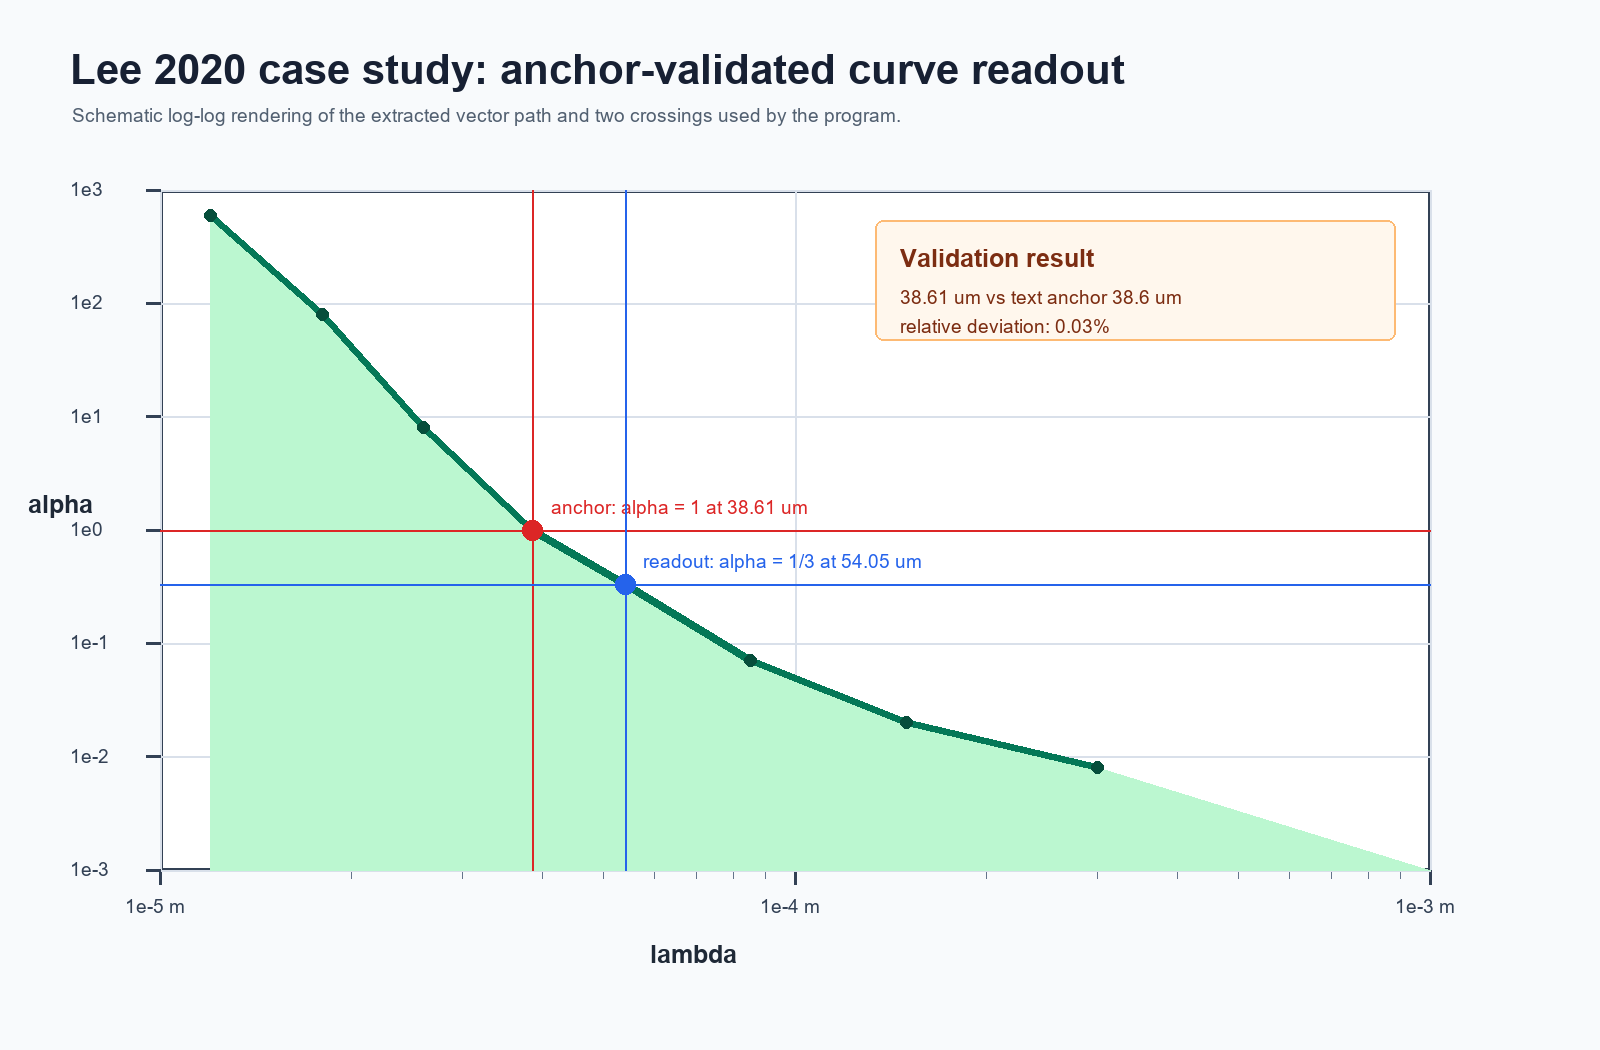
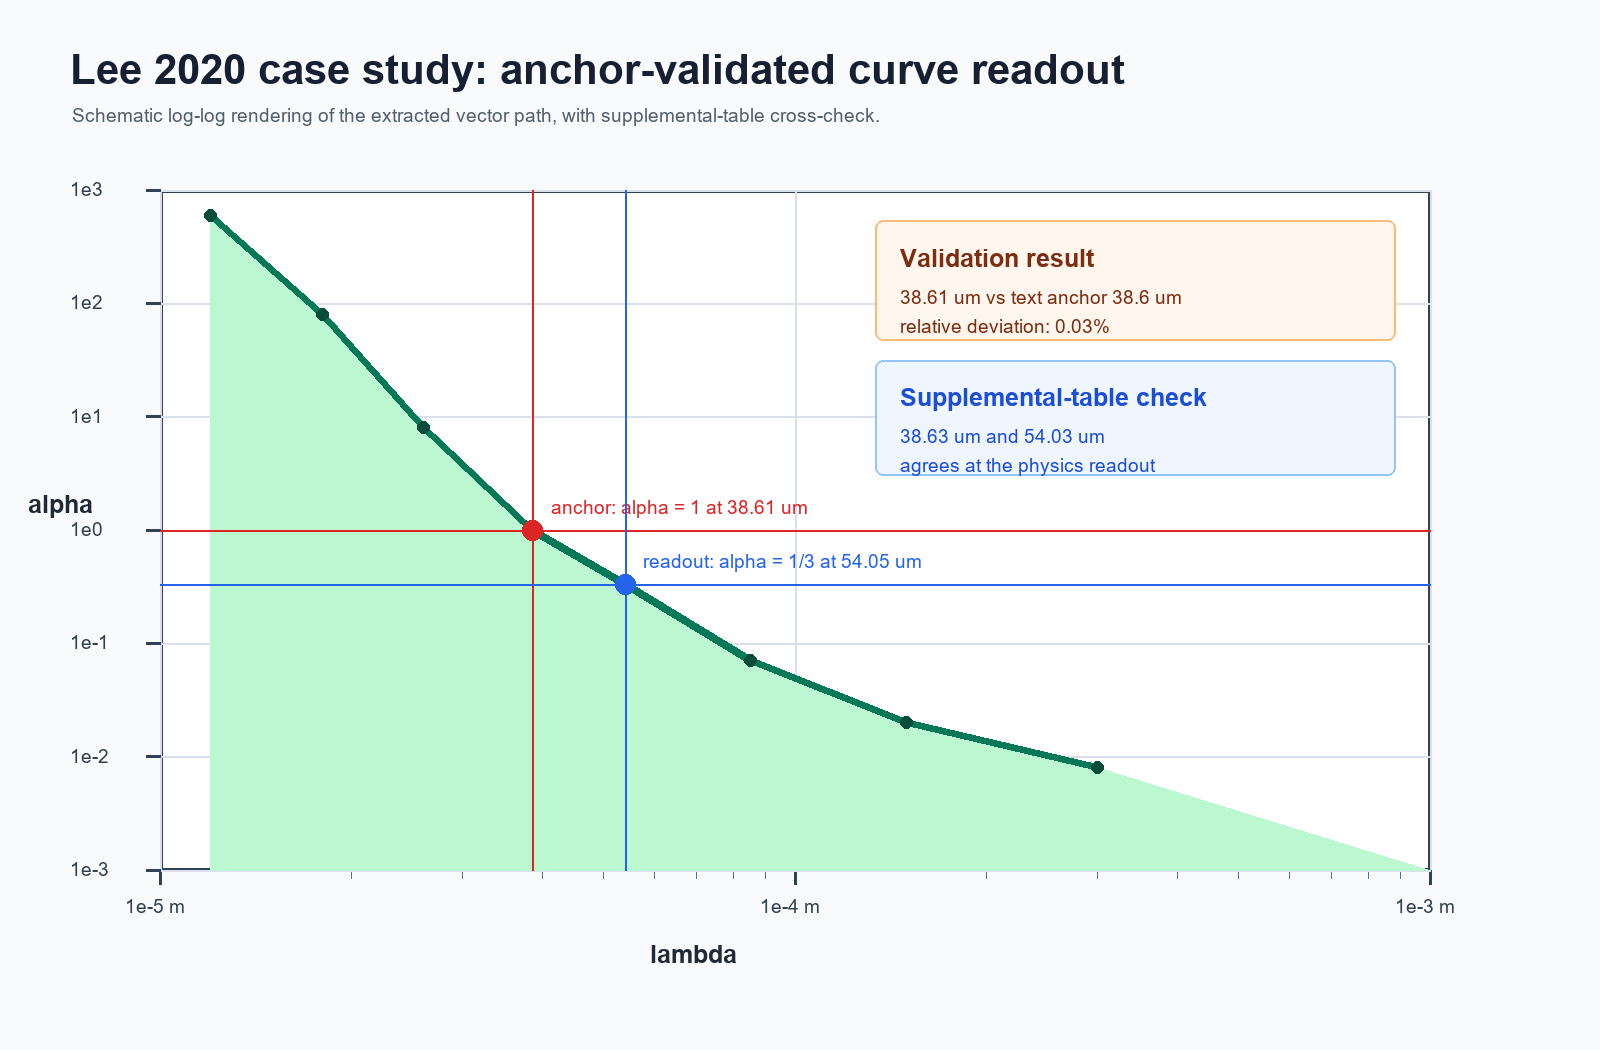
Update short-range gravity data citations and paper drafts
- wire Exp01 results into Paper 1, Paper 3, and Paper 6 drafts
- refresh Yukawa/null-test sections with validated Lee and Tan crossings
- regenerate affected draft figures with current 54.03 um frontier
- add Lee 2020 and Tan 2020 reference entries and citation markers
- update Exp01 lab report to curve-level confrontation status

Changed region(s): [[0.5625, 0.3657, 0.75, 0.4571], [0.3438, 0.0914, 0.5625, 0.1219]]

diff --git a/paper_drafts/03/src_fig/figure_3_lee2020_case_study.py b/paper_drafts/03/src_fig/figure_3_lee2020_case_study.py
@@ -28,7 +28,7 @@ label = font(25, True)
 small = font(19)
 
 d.text((70, 45), "Lee 2020 case study: anchor-validated curve readout", font=title, fill="#172033")
-d.text((72, 104), "Schematic log-log rendering of the extracted vector path and two crossings used by the program.", font=small, fill="#526071")
+d.text((72, 104), "Schematic log-log rendering of the extracted vector path, with supplemental-table cross-check.", font=small, fill="#526071")
 
 plot = (160, 190, 1430, 870)
 left, top, right, bottom = plot
@@ -69,6 +69,8 @@ d.text((28, 490), "alpha", font=label, fill="#1f2937")
 # Smooth illustrative curve constrained to pass through the two recorded crossings.
 cross_a1 = 38.61e-6
 cross_a13 = 54.05e-6
+supp_a1 = 38.63e-6
+supp_a13 = 54.03e-6
 points = [
     (1.2e-5, 6.0e2),
     (1.8e-5, 8.0e1),
@@ -101,6 +103,12 @@ d.rounded_rectangle(note, radius=8, fill="#fff7ed", outline="#fdba74", width=2)
 d.text((900, 244), "Validation result", font=label, fill="#7c2d12")
 d.text((900, 286), "38.61 um vs text anchor 38.6 um", font=small, fill="#7c2d12")
 d.text((900, 315), "relative deviation: 0.03%", font=small, fill="#7c2d12")
+
+cross = (875, 360, 1395, 475)
+d.rounded_rectangle(cross, radius=8, fill="#eff6ff", outline="#93c5fd", width=2)
+d.text((900, 383), "Supplemental-table check", font=label, fill="#1d4ed8")
+d.text((900, 425), "38.63 um and 54.03 um", font=small, fill="#1d4ed8")
+d.text((900, 454), "agrees at the physics readout", font=small, fill="#1d4ed8")
 
 OUT.parent.mkdir(parents=True, exist_ok=True)
 img.save(OUT)

diff --git a/paper_drafts/06/src_fig/figure_4_yukawa_null_test.py b/paper_drafts/06/src_fig/figure_4_yukawa_null_test.py
@@ -38,8 +38,8 @@ left_lines = [
     "V(r) = -Gm/r [1 + alpha exp(-r/ell)]",
     "alpha = 1/3",
     "ell = sqrt(6a)",
-    "Lee 2020 curve: alpha = 1/3 crossing",
-    "ell < 54.05 um",
+    "validated curves: Lee binds",
+    "ell < 54.03 um",
 ]
 right_lines = [
     "a = 0",
@@ -62,7 +62,7 @@ d.polygon([(865, 475), (842, 462), (842, 488)], fill="#64748b")
 
 footer = (250, 800, 1350, 865)
 d.rounded_rectangle(footer, radius=8, fill="#fff7ed", outline="#fdba74", width=2)
-d.text((290, 820), "Data do not select a = 0; the principle does. Data test whether the principle survives.", font=body, fill="#7c2d12")
+d.text((290, 820), "Data do not select a = 0; the principle does. Current alpha=1/3 frontier: 54.03 um.", font=body, fill="#7c2d12")
 
 OUT.parent.mkdir(parents=True, exist_ok=True)
 img.save(OUT)

diff --git a/paper_drafts/06/md/09_yukawa_null_test.md b/paper_drafts/06/md/09_yukawa_null_test.md
@@ -14,16 +14,27 @@ alpha = 1/3,
 ell = sqrt(6a).
 ```
 
-Short-range gravity experiments can therefore bound `ell`. In the Lee 2020
-curve extracted for this project, the `alpha = 1/3` crossing is
+Short-range gravity experiments can therefore bound `ell` if the scalaron is
+allowed. The current `ShortRangeGravity` v1 data gate contains two validated
+95%-CL curves [Lee et al., 2020; Tan et al., 2020]:
 
 ```text
-ell = 54.05 um.
+Lee 2020: |alpha| = 1 crossing   38.63 um
+Lee 2020: alpha = 1/3 crossing   54.03 um
+
+Tan 2020: |alpha| = 1 crossing   47.74 um
+Tan 2020: alpha = 1/3 crossing   57.29 um
 ```
 
-Thus, without static frame indifference, that curve would bound the scalaron
-range at approximately this scale. With static frame indifference, the
-prediction is stronger and cleaner:
+The Lee 2020 curve [Lee et al., 2020] is binding in the scalaron window.
+Thus, without static frame indifference, the current data would bound the
+scalaron range at
+
+```text
+ell < 54.03 um.
+```
+
+With static frame indifference, the prediction is stronger and cleaner:
 
 ```text
 No gravitational-strength scalaron Yukawa channel exists at any range.
@@ -33,3 +44,7 @@ The data do not select `a = 0`; the principle does. The data show where the
 principle is being tested. A confirmed gravitational-strength Yukawa signal
 with the scalaron sign and coupling would falsify or force a scope revision of
 static frame indifference.
+
+The Lee value is independently cross-checked: the supplemental-table extraction
+gives `54.03 um`, while the earlier vector-path extraction from Fig. 5 of
+[Lee et al., 2020] gives `54.05 um`.

diff --git a/paper_drafts/06/md/16_appendix_d_yukawa_translation.md b/paper_drafts/06/md/16_appendix_d_yukawa_translation.md
@@ -20,12 +20,29 @@ alpha = 1/3,
 lambda = ell.
 ```
 
-In the current data notes, the Lee 2020 vector-extracted curve gives the
-`alpha = 1/3` crossing at
+The live data gate uses the validated Lee 2020 supplemental `chi^2` table
+[Lee et al., 2020] and the Tan 2020 author-provided `alpha(lambda)` table
+[Tan et al., 2020]. Their relevant crossings are:
 
 ```text
-lambda = 54.05 um.
+Lee 2020:
+  |alpha| = 1      lambda = 38.63 um
+  alpha = 1/3      lambda = 54.03 um
+
+Tan 2020:
+  |alpha| = 1      lambda = 47.74 um
+  alpha = 1/3      lambda = 57.29 um
 ```
 
-This appendix should be updated if official author-provided limit tables
-replace the vector-extracted curve.
+Lee 2020 [Lee et al., 2020] is therefore the binding current curve for the
+scalaron coupling, giving
+
+```text
+ell < 54.03 um
+```
+
+if `a` is allowed. This number is a bound on the `R^2` route after dropping
+static frame indifference; it is not an input to the selection theorem. The
+earlier vector-path extraction from Lee Fig. 5 [Lee et al., 2020] gave
+`54.05 um`, providing an independent cross-check of the supplemental-table
+extraction.

diff --git a/theory_v3/development/field_equation_trials/lab_reports/exp01_short_range_anchors_lab_report.md b/theory_v3/development/field_equation_trials/lab_reports/exp01_short_range_anchors_lab_report.md
@@ -43,16 +43,16 @@ Verified scalar anchors:
 
 | anchor | result | confidence | status |
 |---|---|---|---|
-| Lee et al. 2020, PRL 124, 101101 | $|\alpha|=1$ excluded for $\lambda\ge38.6\,\mu$m; separations tested 52 $\mu$m - 3.0 mm | 95% CL | VERIFIED_FROM_ABSTRACT |
-| Tan et al. 2020, PRL 124, 051301 | $|\alpha|\le1$ holds down to $\lambda=48\,\mu$m | 95% CL | VERIFIED_FROM_ABSTRACT |
-| Kapner et al. 2007, PRL 98, 021101 | $|\alpha|=1$ excluded for $\lambda\ge56\,\mu$m | 95% CL | SUPERSEDED by Lee 2020 |
+| Lee et al. 2020 [Lee et al., 2020], PRL 124, 101101 | $\|\alpha\|=1$ excluded for $\lambda\ge38.6\,\mu$m; separations tested 52 $\mu$m - 3.0 mm | 95% CL | VERIFIED_FROM_ABSTRACT |
+| Tan et al. 2020 [Tan et al., 2020], PRL 124, 051301 | $\|\alpha\|\le1$ holds down to $\lambda=48\,\mu$m | 95% CL | VERIFIED_FROM_ABSTRACT |
+| Kapner et al. 2007, PRL 98, 021101 | $\|\alpha\|=1$ excluded for $\lambda\ge56\,\mu$m | 95% CL | SUPERSEDED by Lee 2020 |
 
 Validated curve artifacts:
 
 | curve | source artifact | points | validation |
 |---|---|---:|---|
-| Lee 2020 | `lee2020_chi_squared_vs_lambda.csv` from validated `suppMaterial1.pdf` text extraction | 66 | $|\alpha|=1$ crossing 38.63 $\mu$m; 0.08% from abstract anchor |
-| Tan 2020 | `tan2020_alpha_lambda_95cl.txt` from author-provided `PRL2020-AlphaLambda.txt` | 25 | $|\alpha|=1$ crossing 47.74 $\mu$m; 0.55% from abstract anchor |
+| Lee 2020 | `lee2020_chi_squared_vs_lambda.csv` from validated `suppMaterial1.pdf` text extraction | 66 | $\|\alpha\|=1$ crossing 38.63 $\mu$m; 0.08% from abstract anchor |
+| Tan 2020 | `tan2020_alpha_lambda_95cl.txt` from author-provided `PRL2020-AlphaLambda.txt` | 25 | $\|\alpha\|=1$ crossing 47.74 $\mu$m; 0.55% from abstract anchor |
 
 Artifact cache status at run time:
 
@@ -63,8 +63,10 @@ OK  manual  lee2020_chi_squared_vs_lambda.csv
 OK  manual  tan2020_alpha_lambda_95cl.txt
 ```
 
-Physical inputs to the crossover formula: $\hbar=1.054571817\times10^{-34}$ J s,
-$c=2.99792458\times10^8$ m/s, $\rho_\Lambda=5.4\times10^{-10}$ J/m$^3$.
+Physical inputs to the crossover formula: 
+$\hbar=1.054571817\times10^{-34}$ J s,
+$c=2.99792458\times10^8$ m/s, 
+$\rho_\Lambda=5.4\times10^{-10}$ J/m$^3$.
 
 ## Results
 

diff --git a/paper_drafts/03/md/11_conclusion.md b/paper_drafts/03/md/11_conclusion.md
@@ -6,11 +6,14 @@ PDF. When the relevant path can be identified, calibrated from tick geometry,
 and validated against an external anchor, the PDF itself can provide a
 reproducible route to plotted data.
 
-The Lee et al. 2020 case study demonstrates the workflow. A vector path from
-the filled exclusion region reproduces the text-stated `|alpha| = 1` crossing
-at `38.6 um` to `0.03%` and yields the `alpha = 1/3` crossing at `54.05 um`.
-The result is not a replacement for official data release, but it is a
-provenance-graded, anchor-validated extraction from the published figure.
+The Lee et al. 2020 case study [Lee et al., 2020] demonstrates the workflow.
+A vector path from the filled exclusion region reproduces the text-stated
+`|alpha| = 1` crossing at `38.6 um` to `0.03%` and yields the `alpha = 1/3`
+crossing at `54.05 um`.
+A later supplemental-table extraction gives `54.03 um`, independently
+cross-checking the figure-path readout. The result is not a replacement for
+official data release, but it is a provenance-graded, anchor-validated
+extraction from the published figure.
 
 The broader lesson is methodological. Data extraction from figures should move
 from manual clicks toward auditable scripts, explicit coordinate transforms,

diff --git a/paper_drafts/03/md/05_case_study_lee2020.md b/paper_drafts/03/md/05_case_study_lee2020.md
@@ -1,7 +1,7 @@
 # 5. Case Study: Lee et al. 2020 Yukawa Exclusion Curve
 
 The first case study is the short-range gravity Yukawa exclusion curve in
-Lee et al. 2020, Figure 5. The figure reports a `95%` confidence-level
+Lee et al. 2020 [Lee et al., 2020], Figure 5. The figure reports a `95%` confidence-level
 exclusion boundary in the `alpha(lambda)` plane. The relevant public PDF page
 contains vector drawings and no raster images for the plotted figure.
 
@@ -28,6 +28,14 @@ The same extracted curve gives the `alpha = 1/3` crossing as
 It is a read-off from the author-generated plotted path, with provenance
 `VECTOR_EXTRACTED_FROM_ARXIV_PDF`.
 
+After this extraction was written, the project also obtained a text extraction
+of the Lee supplemental `chi^2` table, validated by the project owner. That
+table [Lee et al., 2020] gives `|alpha| = 1` at `38.63 um` and
+`alpha = 1/3` at `54.03 um`.
+The agreement is a useful independent check: the path-level figure extraction
+and the supplemental-table extraction differ by about `0.02 um` at the
+scalaron crossing.
+
 | quantity | value |
 |---|---:|
 | source figure | Lee et al. 2020, Figure 5 bottom panel |
@@ -36,6 +44,7 @@ It is a read-off from the author-generated plotted path, with provenance
 | extracted anchor crossing | `38.61 um` |
 | relative anchor deviation | `0.03%` |
 | scalaron crossing | `alpha = 1/3` at `54.05 um` |
+| supplemental-table cross-check | `alpha = 1/3` at `54.03 um` |
 
 Figure 3 shows the recovered curve and the two crossings used in the present
 program.

diff --git a/paper_drafts/03/md/15_appendix_c_lee2020_extraction_details.md b/paper_drafts/03/md/15_appendix_c_lee2020_extraction_details.md
@@ -11,6 +11,8 @@ Lee et al., PRL 124, 101101 (2020)
 Figure 5 bottom panel, PDF page 4
 ```
 
+Citation marker: [Lee et al., 2020].
+
 The script loads the PDF with PyMuPDF and inspects drawing paths on page index
 `3`. The target object is a green filled polygon with fill color
 `(0.0, 1.0, 0.0)`. Its line-segment vertices are transformed from PDF
@@ -40,6 +42,15 @@ Derived readout:
 
 ```text
 alpha = 1/3 crossing:  54.05 um
+```
+
+Supplemental-table cross-check:
+
+```text
+source:                  Lee 2020 supplement, chi^2 vs lambda table
+|alpha| = 1 crossing:    38.63 um
+alpha = 1/3 crossing:    54.03 um
+status:                  agrees with vector-path extraction
 ```
 
 The output CSV path is:

diff --git a/paper_drafts/01/md/09_kill_conditions_empirical_checks.md b/paper_drafts/01/md/09_kill_conditions_empirical_checks.md
@@ -16,9 +16,13 @@ observational anchors enter after derivation as kill conditions.
 The short-range gravity channel is especially important conceptually. The
 four-derivative scalar would have produced a Yukawa correction with scalaron
 coupling `alpha = 1/3`. P7-prime eliminates that route, so the theory predicts
-no gravitational-strength Yukawa signal from this sector. The Lee 2020 vector
-extraction used in Paper 3 places the `alpha = 1/3` crossing at `54.05 um` for
-that experimental curve, but the theory's prediction is a null result, not a
+no gravitational-strength Yukawa signal from this sector. The current
+`ShortRangeGravity` v1 data gate contains two validated 95%-CL curves:
+Lee 2020 [Lee et al., 2020] gives the `alpha = 1/3` crossing at `54.03 um`,
+and Tan 2020 [Tan et al., 2020] gives `57.29 um`. Lee is binding in this
+window. The earlier vector-path extraction from Lee Fig. 5 [Lee et al., 2020]
+gave `54.05 um`, so the supplemental-table value is cross-checked at the
+level relevant here. The theory's prediction is a null result, not a
 near-threshold signal.
 
 This structure makes the empirical posture unusual but clean. The theory does

diff --git a/paper_drafts/03/md/12_references.md b/paper_drafts/03/md/12_references.md
@@ -5,8 +5,13 @@ BibTeX file or venue-native reference format.
 
 Required reference groups:
 
-- Lee et al. 2020 short-range gravity/Yukawa exclusion paper, including arXiv
-  and journal metadata.
+- J. G. Lee, E. G. Adelberger, T. S. Cook, S. M. Fleischer, and
+  B. R. Heckel, "New Test of the Gravitational 1/r^2 Law at Separations
+  down to 52 um," *Physical Review Letters* **124**, 101101 (2020).
+  arXiv:2002.11761. DOI: 10.1103/PhysRevLett.124.101101.
+- W.-H. Tan et al., "Improvement for Testing the Gravitational
+  Inverse-Square Law at the Submillimeter Range," *Physical Review Letters*
+  **124**, 051301 (2020). DOI: 10.1103/PhysRevLett.124.051301.
 - PyMuPDF documentation for PDF drawing extraction.
 - WebPlotDigitizer or equivalent pixel digitization tool references.
 - PDF specification or a practical PDF graphics model reference.

diff --git a/paper_drafts/01/md/13_references.md b/paper_drafts/01/md/13_references.md
@@ -16,7 +16,13 @@ Required reference groups:
   and perihelion precession.
 - Binary pulsar and gravitational-wave energy-loss references.
 - Gravity Probe B and LAGEOS frame-dragging references.
-- Short-range gravity/Yukawa experimental references, including Lee 2020.
+- J. G. Lee, E. G. Adelberger, T. S. Cook, S. M. Fleischer, and
+  B. R. Heckel, "New Test of the Gravitational 1/r^2 Law at Separations
+  down to 52 um," *Physical Review Letters* **124**, 101101 (2020).
+  arXiv:2002.11761. DOI: 10.1103/PhysRevLett.124.101101.
+- W.-H. Tan et al., "Improvement for Testing the Gravitational
+  Inverse-Square Law at the Submillimeter Range," *Physical Review Letters*
+  **124**, 051301 (2020). DOI: 10.1103/PhysRevLett.124.051301.
 - Higher-curvature gravity and scalaron references.
 
 Do not finalize novelty claims until the related-work pass is complete.

diff --git a/paper_drafts/06/md/12_references.md b/paper_drafts/06/md/12_references.md
@@ -12,7 +12,13 @@ Required reference groups:
 - Stelle/higher-curvature gravity and spin-2 ghost references.
 - Starobinsky `R + R^2` references, with care about cosmological versus local
   static contexts.
-- Short-range gravity/Yukawa experimental references, including Lee 2020.
+- J. G. Lee, E. G. Adelberger, T. S. Cook, S. M. Fleischer, and
+  B. R. Heckel, "New Test of the Gravitational 1/r^2 Law at Separations
+  down to 52 um," *Physical Review Letters* **124**, 101101 (2020).
+  arXiv:2002.11761. DOI: 10.1103/PhysRevLett.124.101101.
+- W.-H. Tan et al., "Improvement for Testing the Gravitational
+  Inverse-Square Law at the Submillimeter Range," *Physical Review Letters*
+  **124**, 051301 (2020). DOI: 10.1103/PhysRevLett.124.051301.
 - VED/P7-prime source if this note is tied back to the broader program.
 
 Do not finalize the novelty claim before the literature pass.